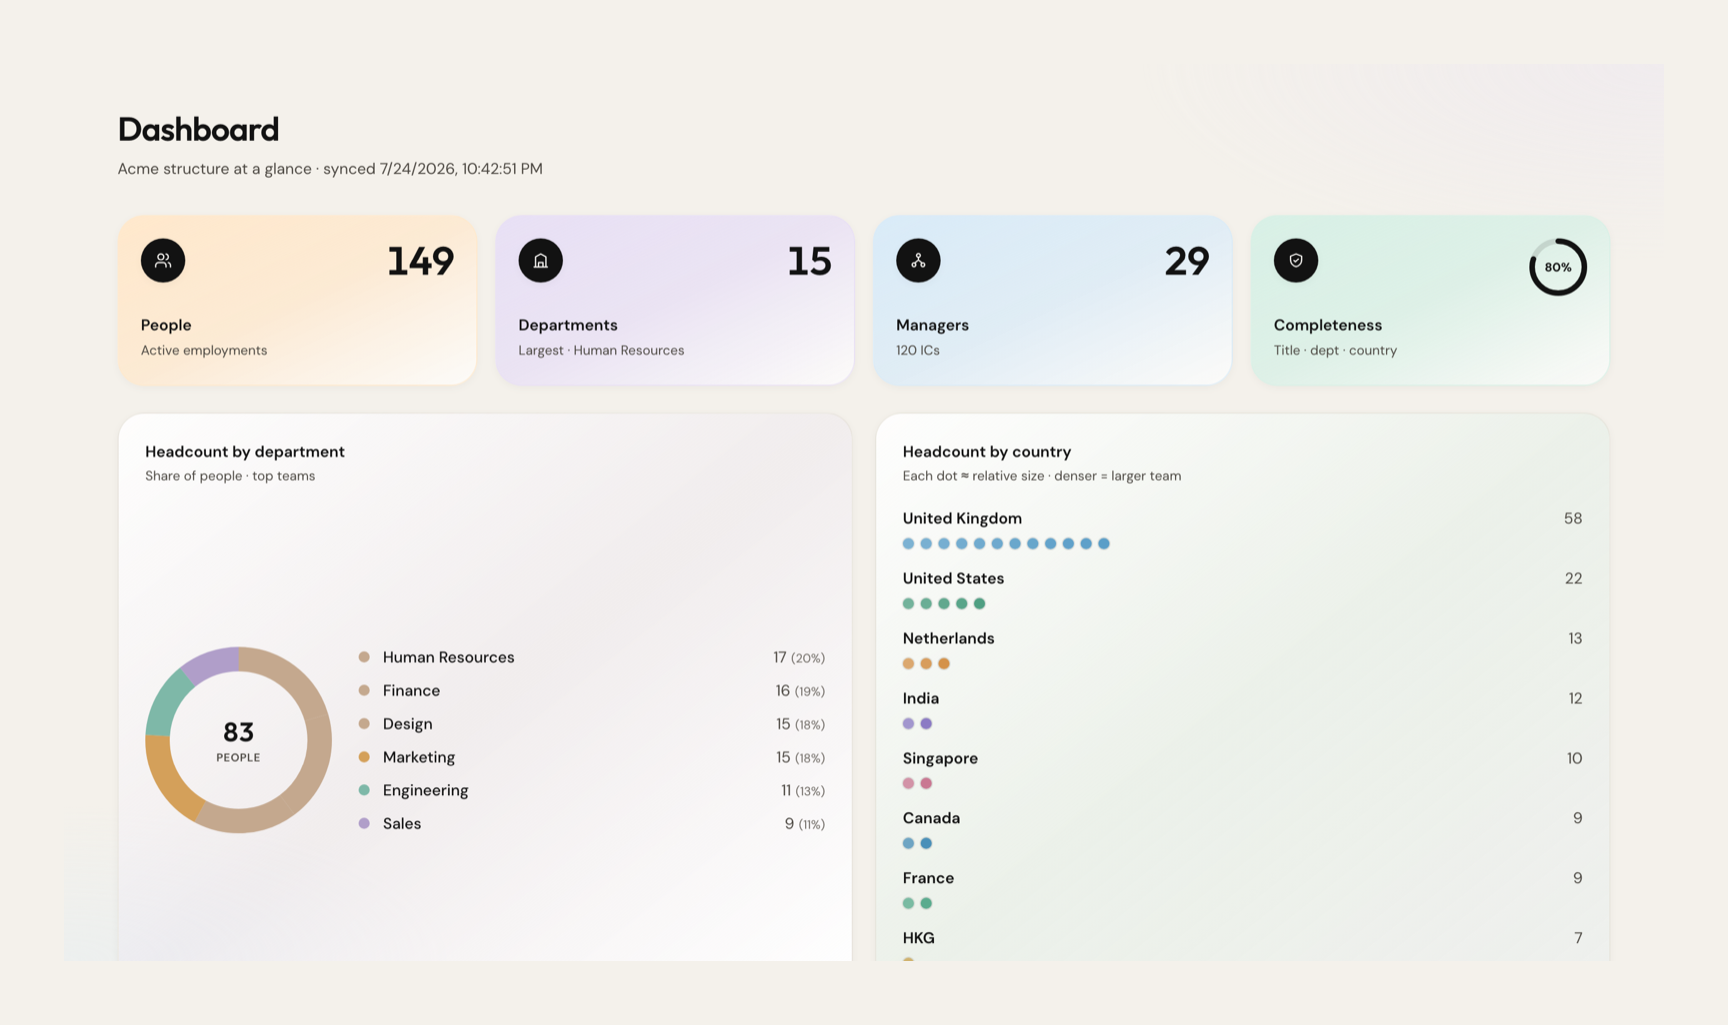
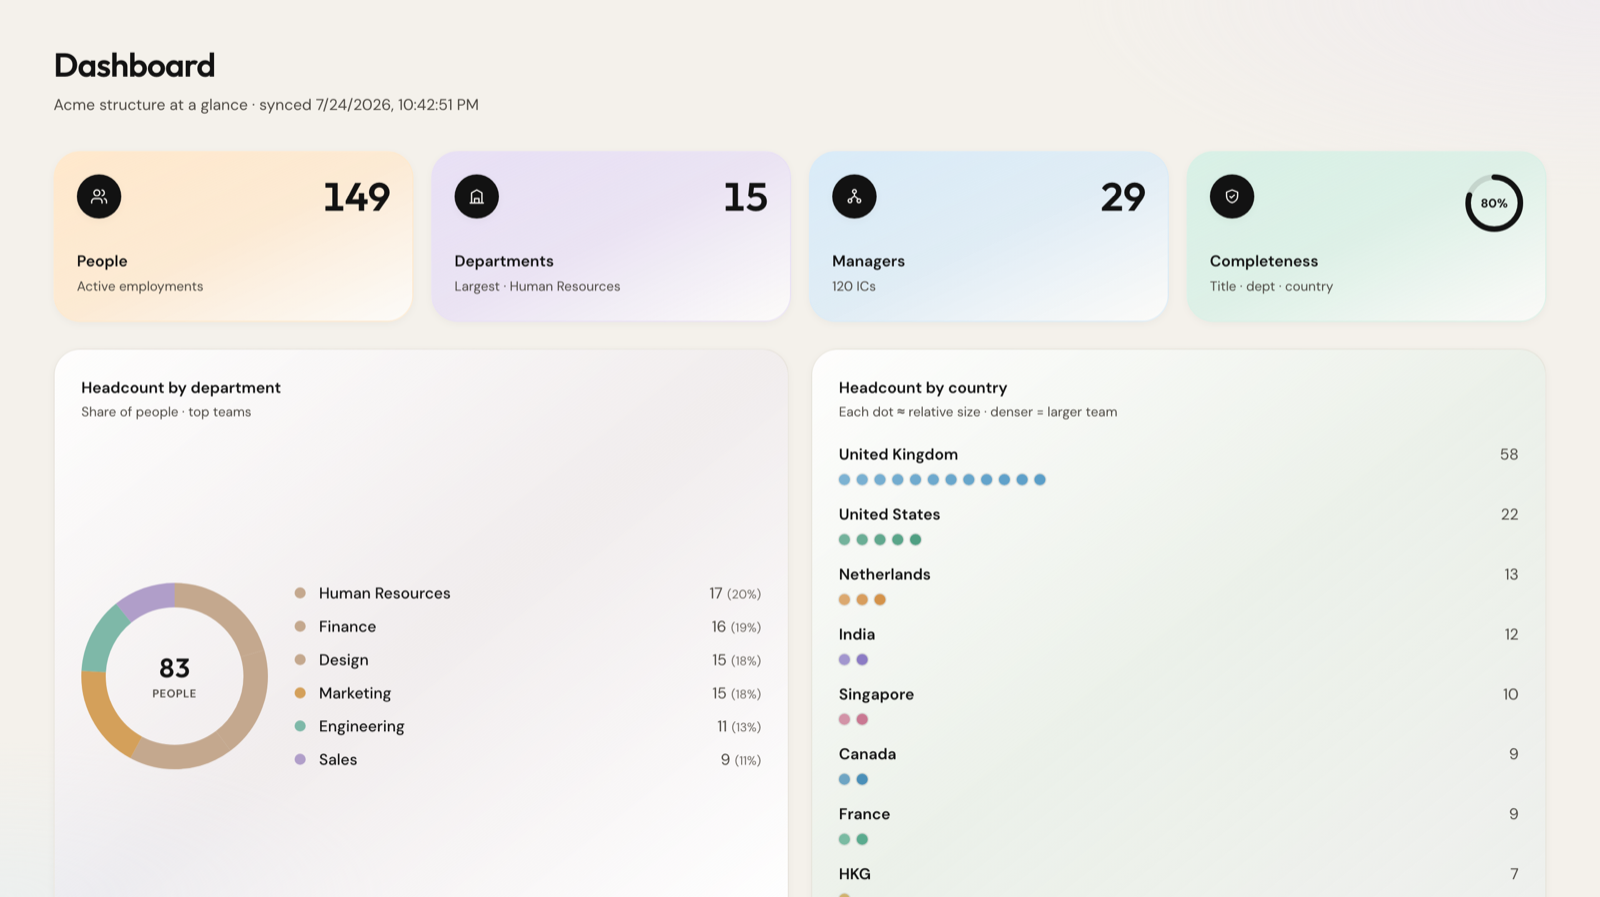
Fill marketing mockups edge-to-edge without inset padding.
Restore full-bleed screenshots and drop the contain/padding that shrank the UI inside frames and surface cards.

diff --git a/src/components/marketing/MarketingAppShot.tsx b/src/components/marketing/MarketingAppShot.tsx
@@ -11,7 +11,7 @@ type MarketingAppShotProps = {
 
 /**
  * Real product screenshot - used instead of invented marketing mocks.
- * Uses contain (not cover) so UI chrome and sidebars are never cropped.
+ * Full-bleed in the frame (no inset padding) so the UI stays readable.
  */
 export function MarketingAppShot({
   src,
@@ -24,13 +24,13 @@ export function MarketingAppShot({
     <Image
       src={src}
       alt={alt}
-      width={1728}
-      height={1025}
+      width={1600}
+      height={900}
       priority={priority}
       className={
         framed
-          ? "h-auto w-full rounded-[0.85rem] object-contain object-top"
-          : `h-auto w-full object-contain object-top ${className}`
+          ? "h-auto w-full object-cover object-top"
+          : `h-auto w-full object-cover object-top ${className}`
       }
       sizes="(max-width: 768px) 100vw, 60vw"
     />
@@ -42,7 +42,7 @@ export function MarketingAppShot({
 
   return (
     <div
-      className={`overflow-hidden rounded-[1.35rem] border border-norma-border/70 bg-norma-canvas shadow-[0_28px_80px_rgb(18_18_18/0.12)] ring-1 ring-white/70 ${className}`}
+      className={`overflow-hidden rounded-[1.35rem] border border-norma-border/70 bg-white shadow-[0_28px_80px_rgb(18_18_18/0.12)] ring-1 ring-white/70 ${className}`}
     >
       <div className="flex h-10 shrink-0 items-center gap-2 border-b border-norma-border/70 bg-white/90 px-3">
         <span className="h-2.5 w-2.5 rounded-full bg-norma-rose" />
@@ -52,7 +52,7 @@ export function MarketingAppShot({
           app.acme
         </span>
       </div>
-      <div className="bg-norma-canvas p-3 sm:p-4">{image}</div>
+      <div className="relative w-full bg-norma-canvas">{image}</div>
     </div>
   );
 }

diff --git a/src/components/marketing/MarketingHero.tsx b/src/components/marketing/MarketingHero.tsx
@@ -47,18 +47,16 @@ export function MarketingHero() {
 
         <div className="marketing-hero-visual relative md:col-span-7">
           <div className="relative">
-            <div className="overflow-hidden rounded-[1.75rem] border border-norma-border/70 bg-norma-canvas shadow-[0_32px_90px_rgb(18_18_18/0.14)] ring-1 ring-white/80">
-              <div className="p-3 sm:p-4">
-                <Image
-                  src="/marketing/hero-org-chart.png"
-                  alt="Acme org chart workspace with Chart, Tree, and Map views"
-                  width={1728}
-                  height={1128}
-                  priority
-                  className="h-auto w-full rounded-[0.85rem] object-contain object-top"
-                  sizes="(max-width: 768px) 100vw, 55vw"
-                />
-              </div>
+            <div className="overflow-hidden rounded-[1.75rem] border border-norma-border/70 bg-white shadow-[0_32px_90px_rgb(18_18_18/0.14)] ring-1 ring-white/80">
+              <Image
+                src="/marketing/hero-org-chart.png"
+                alt="Acme org chart workspace with Chart, Tree, and Map views"
+                width={1600}
+                height={1000}
+                priority
+                className="h-auto w-full object-cover object-top"
+                sizes="(max-width: 768px) 100vw, 55vw"
+              />
             </div>
 
             <div className="marketing-float-chip marketing-float-chip-a absolute -left-3 top-[18%] hidden max-w-[13rem] rounded-2xl border border-norma-peach/80 bg-norma-peach/95 px-4 py-3 shadow-norma-md backdrop-blur sm:block md:-left-6">

diff --git a/src/app/page.tsx b/src/app/page.tsx
@@ -104,13 +104,13 @@ export default function MarketingHomePage() {
                     href="/login"
                     className={`marketing-surface-panel group block overflow-hidden rounded-[1.75rem] border border-norma-border/70 bg-gradient-to-b ${surface.accent} shadow-norma-sm`}
                   >
-                    <div className="relative aspect-[16/9] overflow-hidden bg-norma-canvas p-3 sm:p-4">
+                    <div className="relative aspect-[16/9] overflow-hidden bg-norma-surface-muted">
                       <Image
                         src={surface.src}
                         alt={surface.alt}
-                        width={1728}
-                        height={1025}
-                        className="h-full w-full rounded-[0.85rem] object-contain object-top transition duration-500 group-hover:scale-[1.015]"
+                        width={1600}
+                        height={900}
+                        className="h-full w-full object-cover object-top transition duration-500 group-hover:scale-[1.02]"
                         sizes="(max-width: 768px) 100vw, 50vw"
                       />
                     </div>

diff --git a/src/components/marketing/marketing-motion.test.ts b/src/components/marketing/marketing-motion.test.ts
@@ -52,8 +52,9 @@ describe("marketing remote.com structure + real screenshots", () => {
       join(process.cwd(), "src/components/marketing/MarketingAppShot.tsx"),
       "utf8",
     );
-    expect(shot).toContain("object-contain");
-    expect(shot).not.toContain("object-cover");
+    expect(shot).toContain("object-cover");
+    expect(shot).not.toContain("p-3 sm:p-4");
+    expect(shot).not.toContain("object-contain");
 
     for (const file of [
       "public/marketing/hero-org-chart.png",
